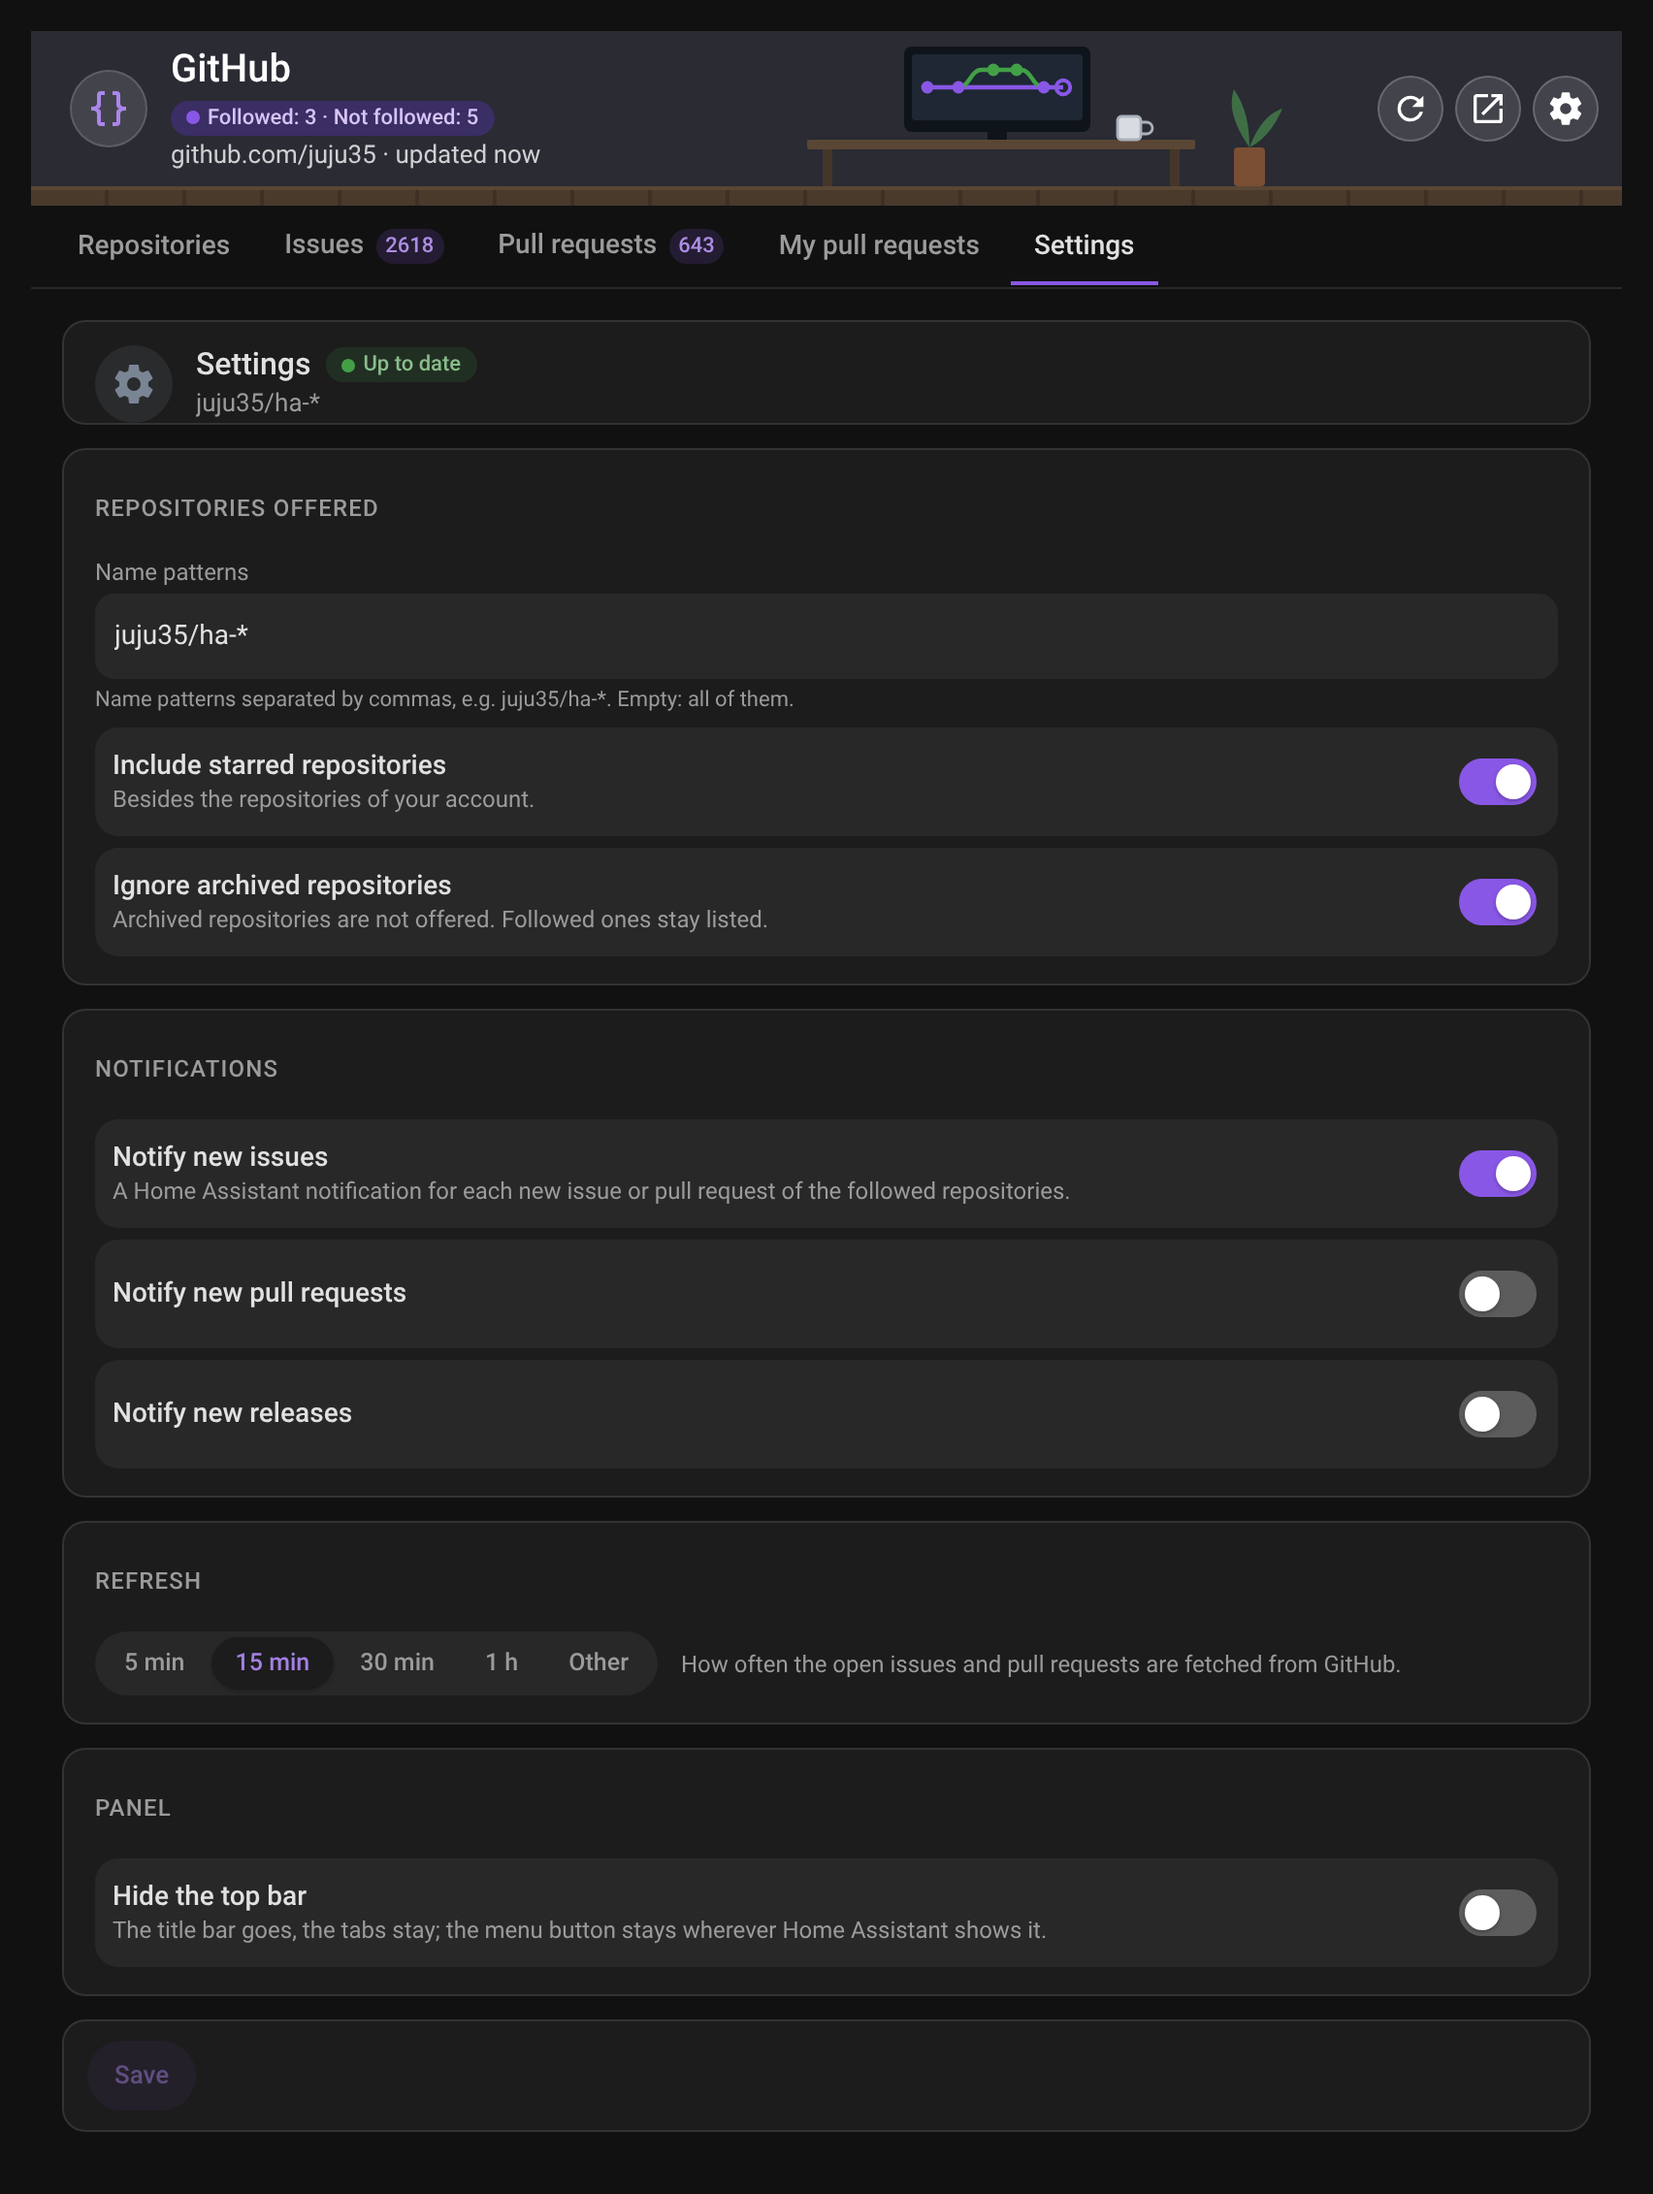
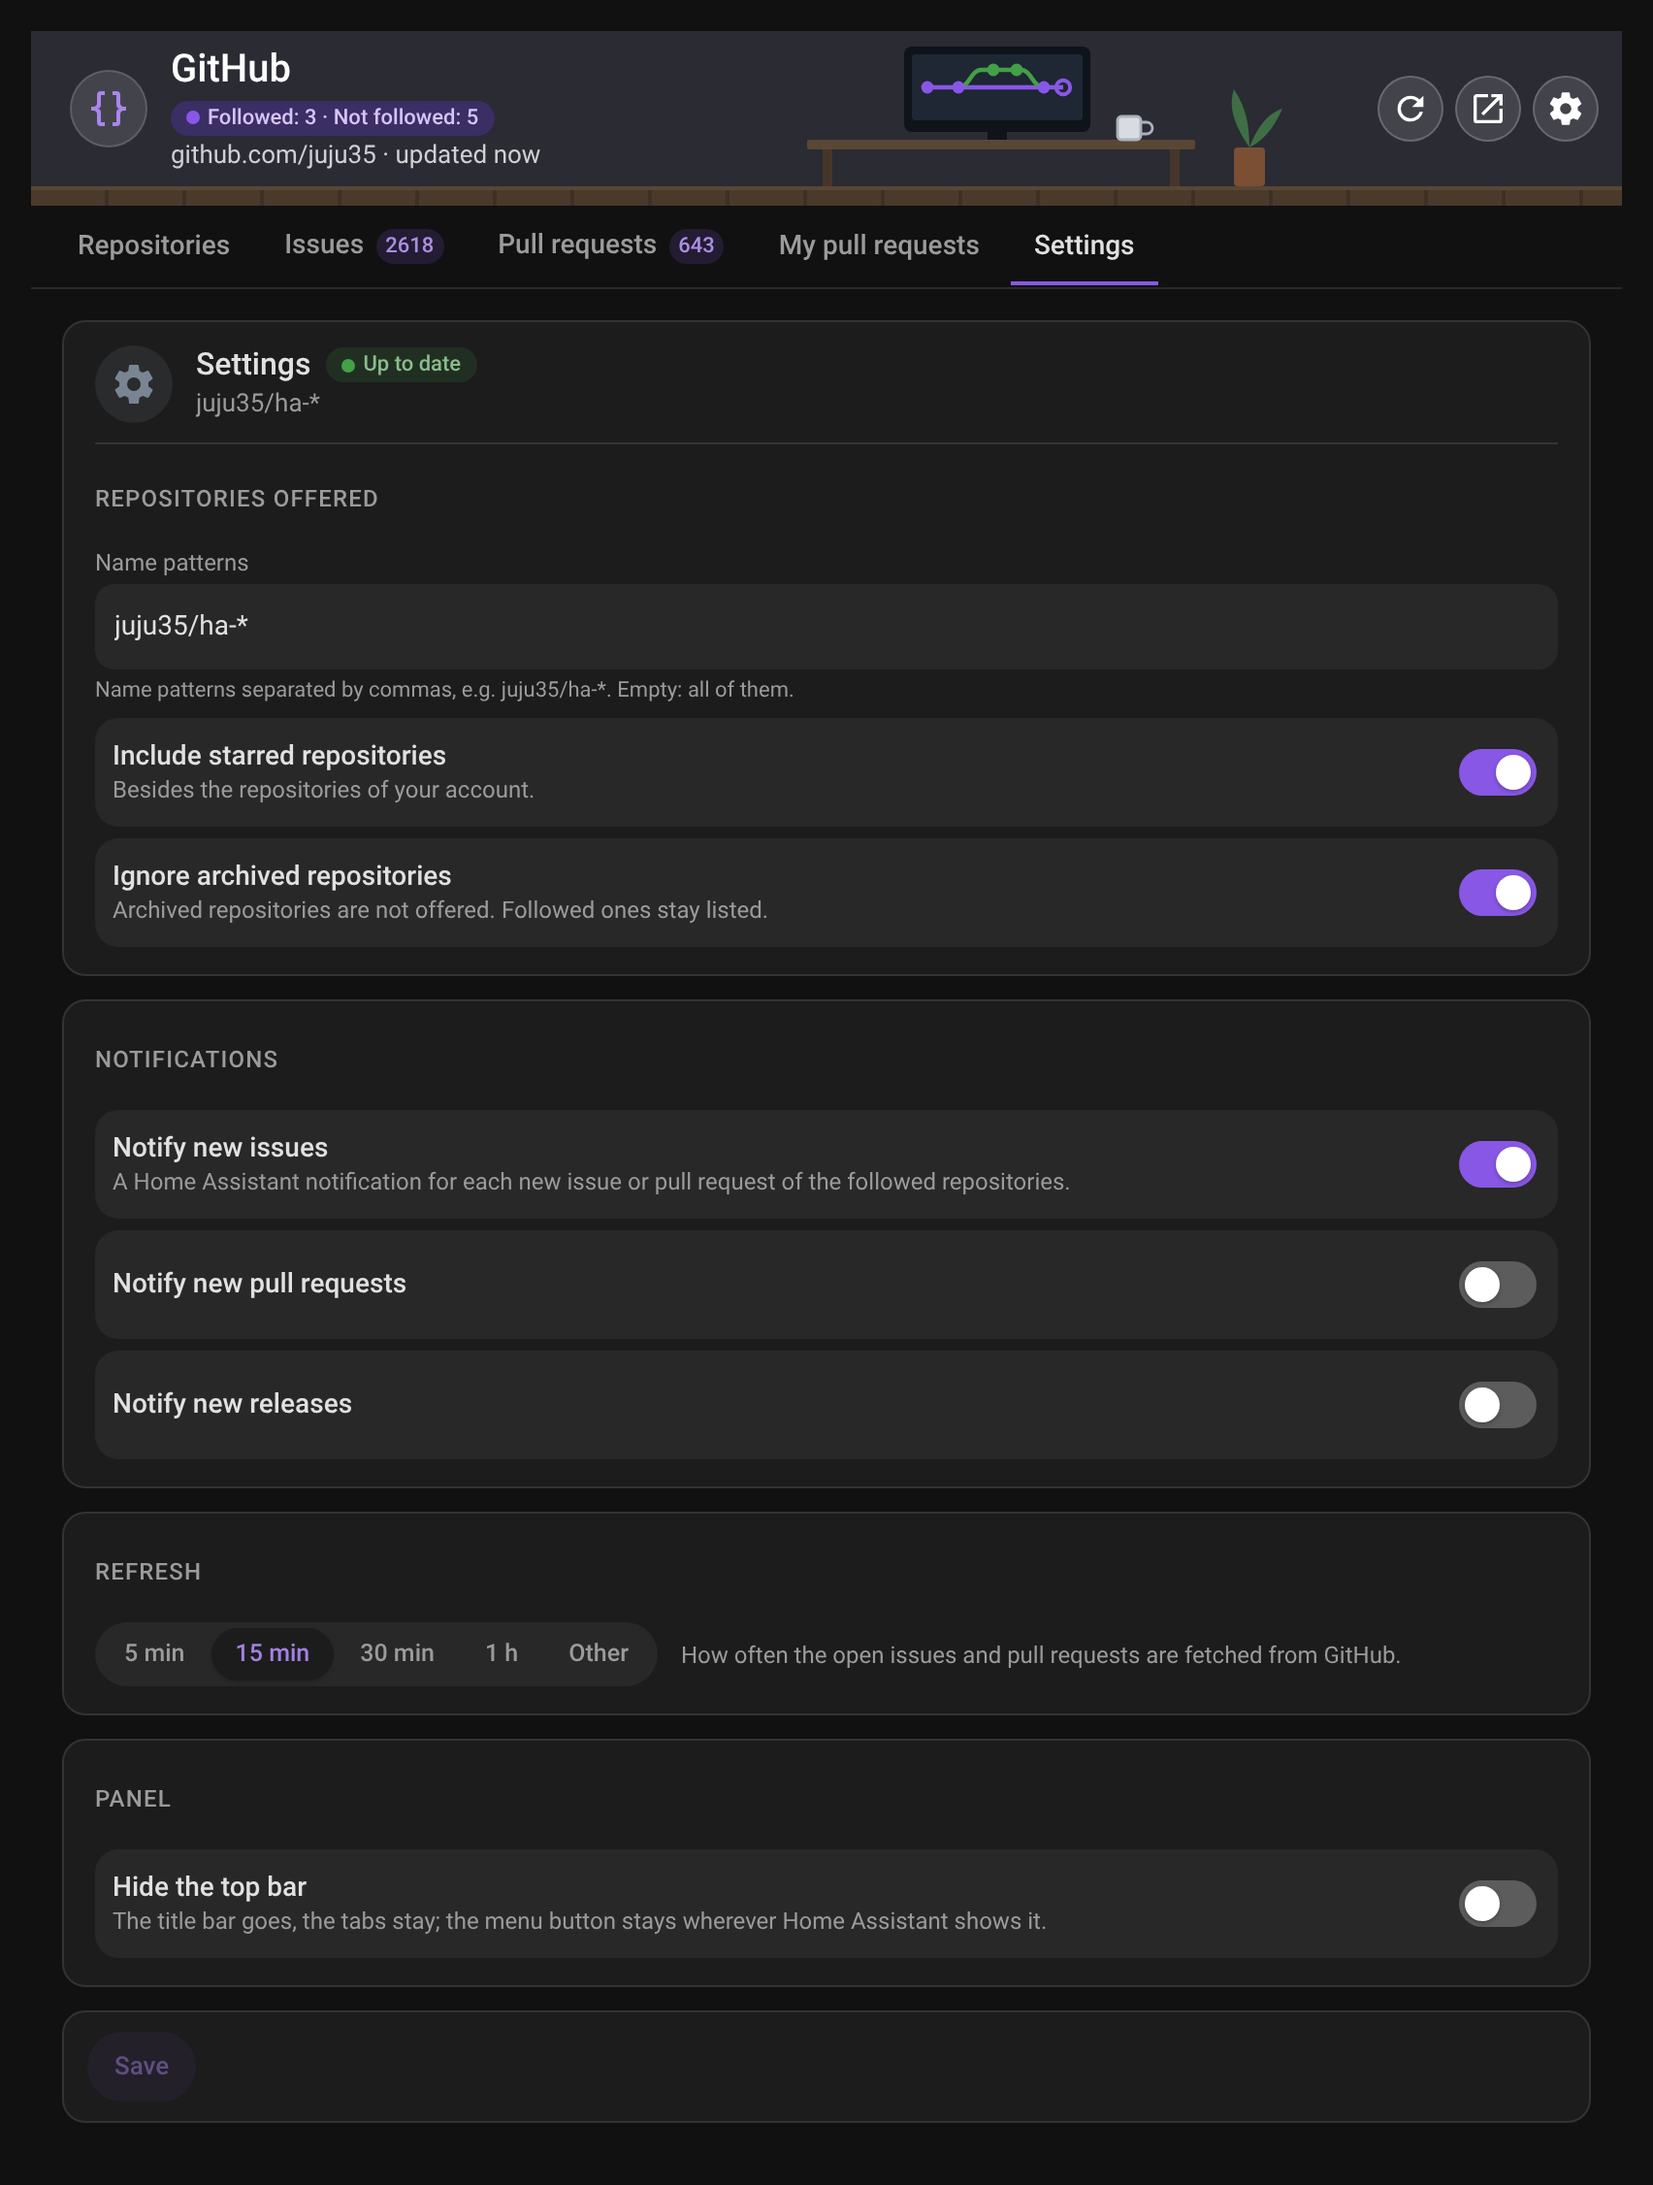
fix: open the first settings card with the settings header (2.15.1) (#47)
Settings tab: the header (icon, title, *Up to date* / *Unsaved changes*
pill, name patterns) now opens the first settings card (Repositories
offered), above a divider, instead of standing alone in a card that held
only an icon and a pill.

Version 2.15.1 in manifest.json, const.py, github-card.js,
github-panel.js, package.json, package-lock.json and CHANGELOG.md.

---
_Generated by [Claude
Code](https://claude.ai/code/session_01F4sAmyzzHYuDgvXTArf7Xq)_

---------

diff --git a/custom_components/github_card/frontend/github-panel.js b/custom_components/github_card/frontend/github-panel.js
@@ -17,7 +17,7 @@
  *   notifications, and the title bar hidden (the tabs and the menu button stay).
  */
 
-const GITHUB_PANEL_VERSION = "2.15.0";
+const GITHUB_PANEL_VERSION = "2.15.1";
 // No Activity tab since 2.3.0: the Repositories tab shows the same; /github-config/activity opens Repositories.
 const GITHUB_PANEL_TABS = ["repos", "issues", "pulls", "mine", "settings"];
 // Bounds of the items refresh interval, in minutes (kept in step with const.py)
@@ -803,6 +803,9 @@ class GitHubPanel extends HTMLElement {
     .thead { display:flex; align-items:center; gap:12px; padding:12px 16px 0; min-width:0; }
     .thead .badge-ic { background:color-mix(in srgb, var(--tone, var(--gh-accent)) 14%, transparent); box-shadow:none; }
     .thead .bsub { color:var(--secondary-text-color); }
+    /* Settings: the tab's header inside the first card, over its first group */
+    .sethead { padding-bottom:10px; margin-bottom:2px; border-bottom:1px solid var(--divider-color, rgba(127,127,127,.2)); }
+    .sethead .thead { padding:0; }
     .thead .stpill { background:color-mix(in srgb, var(--c) 15%, transparent); color:color-mix(in srgb, var(--c) 55%, var(--primary-text-color)); }
     /* Repository filter: the repositories with open items only, the busiest first; the rest behind "+ N more" */
     .more { position:relative; }
@@ -1997,7 +2000,8 @@ class GitHubPanel extends HTMLElement {
   _settingsTop() {
     const changed = this._changed();
     const patterns = this._value("filter") || "";
-    return `<div class="card top">${this._banner("cog", this._t("settings"), { tone: changed ? "warn" : "good", text: this._t(changed ? "unsaved" : "up_to_date") }, patterns, "#7a8594")}</div>`;
+    // The tab's header opens the first settings card: alone in a card of its own, it was only an icon and a pill
+    return `<div class="sethead">${this._banner("cog", this._t("settings"), { tone: changed ? "warn" : "good", text: this._t(changed ? "unsaved" : "up_to_date") }, patterns, "#7a8594")}</div>`;
   }
 
   _renderSettings() {
@@ -2017,8 +2021,9 @@ class GitHubPanel extends HTMLElement {
       .map((m) => `<button data-refresh="${m}" aria-pressed="${!other && m === minutes}">${esc(m < 60 ? `${m} min` : `${m / 60} h`)}</button>`)
       .join("");
     const changed = this._changed();
-    host.innerHTML = `${this._settingsTop()}
+    host.innerHTML = `
       <div class="card list">
+        ${this._settingsTop()}
         <div class="lhead"><h2 class="lname">${esc(this._t("s_filter"))}</h2></div>
         <label class="ctl"><span>${esc(this._t("s_patterns"))}</span>
           <div class="field"><input type="text" data-key="filter" value="${esc(this._value("filter"))}" placeholder="juju35/ha-*" spellcheck="false"></div>
@@ -2058,10 +2063,10 @@ class GitHubPanel extends HTMLElement {
           note.className = `note ${now ? "warn" : ""}`;
           note.textContent = now ? this._t("unsaved") : "";
         }
-        const top = host.querySelector(".card.top");
+        const top = host.querySelector(".sethead");
         if (top && (top.dataset.changed !== String(now) || input.dataset.key === "filter")) {
           top.outerHTML = this._settingsTop();
-          host.querySelector(".card.top").dataset.changed = String(now);
+          host.querySelector(".sethead").dataset.changed = String(now);
         }
       });
     }

diff --git a/custom_components/github_card/frontend/github-card.js b/custom_components/github_card/frontend/github-card.js
@@ -8,7 +8,7 @@
  * entity registry (platform "github", translation key, device), whatever the language.
  */
 
-const VERSION = "2.15.0";
+const VERSION = "2.15.1";
 
 // Material Design Icons paths.
 // The width of an element's whole text in its own font, in fractional pixels (scrollWidth is rounded).

diff --git a/custom_components/github_card/const.py b/custom_components/github_card/const.py
@@ -1,7 +1,7 @@
 """Constants for the GitHub Card integration."""
 
 DOMAIN = "github_card"
-VERSION = "2.15.0"
+VERSION = "2.15.1"
 
 # The core GitHub integration, whose repositories the panel follows and unfollows
 GITHUB_DOMAIN = "github"

diff --git a/CHANGELOG.md b/CHANGELOG.md
@@ -1,5 +1,10 @@
 # Changelog
 
+## 2.15.1 - 2026-11-19
+
+### Fixes
+- Panel, Settings: the tab's header (icon, title, *Up to date* / *Unsaved changes*, name patterns) opens the first settings card instead of standing alone in a card of its own.
+
 ## 2.15.0 - 2026-11-19
 
 ### Features
